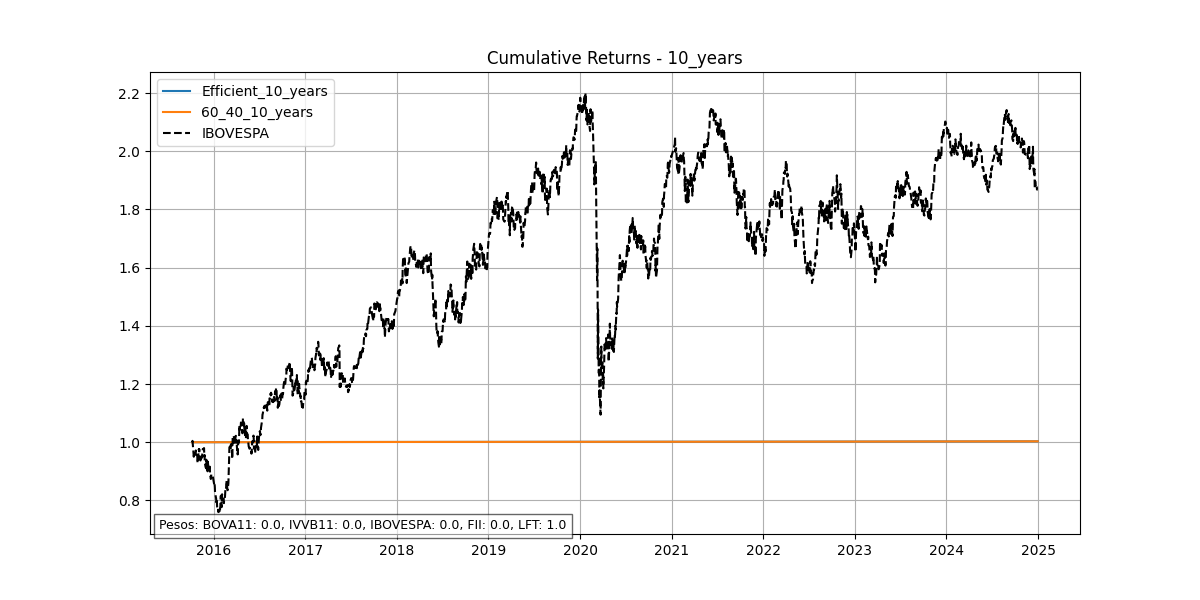
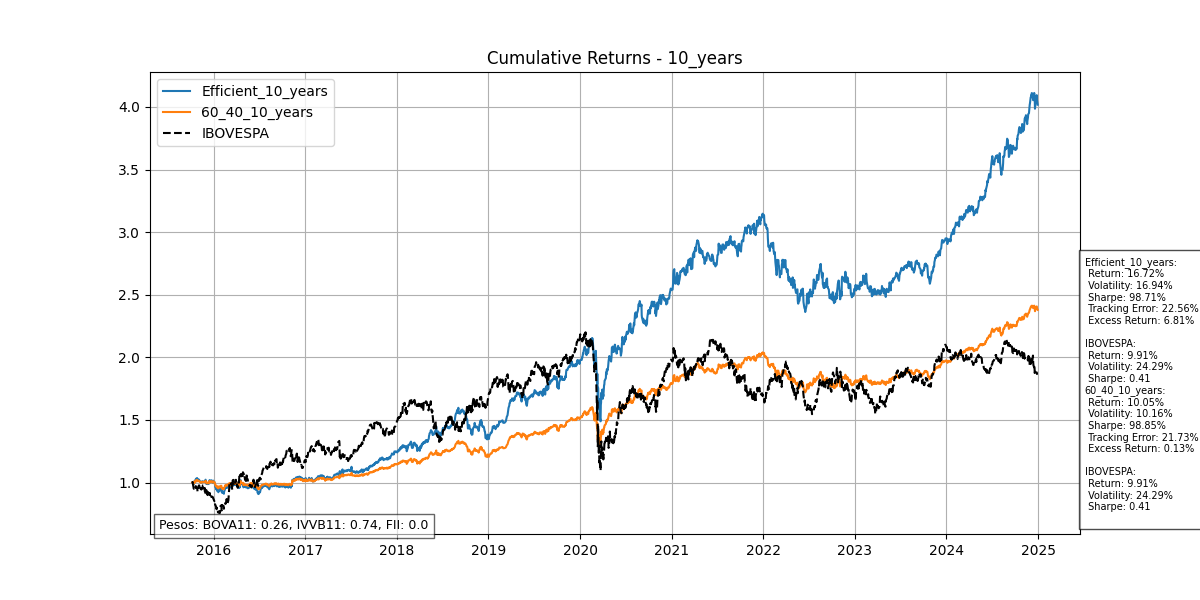
Atualiza script de simulação com métricas e gráficos por período

diff --git a/scripts/test_pipeline.py b/scripts/test_pipeline.py
@@ -57,7 +57,9 @@ print("NaNs per columns after interpolation:")
 print(returns_df.isna().sum())
 
 periods = [10, 5, 3]
-weights_dict = simulate_by_period(full_data, periods)
+risky_assets = full_data[["BOVA11", "IVVB11", "FII"]]
+risky_assets_names = ['BOVA11', 'IVVB11', 'FII']
+weights_dict = simulate_by_period(risky_assets, periods)
 
 portfolio_returns_dict = {}
 
@@ -68,7 +70,9 @@ for label, weights in weights_dict.items():
 
 
     ativos_usados = returns_df.columns[:len(weights)].tolist()
-    clean_returns = returns_df.dropna(subset=ativos_usados + ['LFT'])
+    clean_returns = returns_filtered.dropna(subset=ativos_usados + ['LFT'])
+    print("Retornos usados para portfólio:", clean_returns[ativos_usados].describe())
+    print("Pesos:", weights)
 
     if clean_returns.empty:
         print ('Clean Returns are empty for {label}. Passing...')
@@ -95,19 +99,45 @@ for period in ['10_years', '5_years', '3_years']:
         if key.endswith(period):
             series_filtered = series.loc[idx_filtered]
             cumulative = (1 + series_filtered).cumprod()
-            plt.plot(normalize_series(cumulative), label=key)
+            normalized = cumulative / cumulative.iloc[0]
+            plt.plot(normalized, label=key)
 
             if 'Efficient' in key:
                 weights = weights_dict[period]
-                ativos = returns_df.columns[:len(weights)]
+                ativos = risky_assets_names
                 pesos_formatados = ', '.join([f'{a}: {round(w, 2)}' for a, w in zip(ativos, weights)])
                 plt.text(0.01, 0.01, f'Pesos: {pesos_formatados}', transform=plt.gca().transAxes,
                          fontsize=9, bbox=dict(facecolor='white', alpha=0.6))
-    ibov_filtered = ibov_returns[series.index]
+    ibov_filtered = ibov_returns.loc[idx_filtered]
     ibov_cumulative = (1 + ibov_filtered).cumprod()
     plt.plot(normalize_series(ibov_cumulative), label='IBOVESPA', linestyle='--', color='black')
 
     plt.title(f'Cumulative Returns - {period}')
+    metrics_text = ''
+    for key in portfolio_returns_dict:
+        if key.endswith(period):
+            row = benchmark_df[benchmark_df['Portfolio'] == key]
+            if not row.empty:
+                r = row.iloc[0]
+                metrics_text += f'{key}:\n'
+                metrics_text += f' Return: {r['Annual Return']:.2%}\n'
+                metrics_text += f' Volatility: {r['Volatility']:.2%}\n'
+                metrics_text += f' Sharpe: {r['Sharpe']:.2%}\n'
+                metrics_text += f' Tracking Error: {r['Tracking Error']:.2%}\n'
+                metrics_text += f' Excess Return: {r['Excess Return']:.2%}\n\n'
+
+                ibov_period = ibov_returns.loc[idx_filtered]
+                ibov_annual_return = ibov_period.mean() * 252
+                ibov_volatility = ibov_period.std() * np.sqrt(252)
+                ibov_sharpe = ibov_annual_return / ibov_volatility if ibov_volatility != 0 else np.nan
+
+                metrics_text += f'IBOVESPA:\n'
+                metrics_text += f' Return: {ibov_annual_return:.2%}\n'
+                metrics_text += f' Volatility: {ibov_volatility:.2%}\n'
+                metrics_text += f' Sharpe: {ibov_sharpe:.2f}\n'
+
+    plt.gca().text(1.0051, 0.60, metrics_text, transform=plt.gca().transAxes,
+                   fontsize=7, verticalalignment='top', bbox=dict(facecolor='white', alpha=0.7))
     plt.legend()
     plt.grid(True)
     plt.savefig(f'dashboard/cumulative_returns_{period}.png')
@@ -124,17 +154,6 @@ if benchmark_df is not None and not benchmark_df.empty:
     benchmark_df.to_csv('dashboard/portfolio_metrics.csv', index=False)
 else:
     print("Benchmark_df is empty")
-plt.figure(figsize=(12,6))
-for name, returns in portfolio_returns_dict.items():
-    print(f"{name} → NaNs: {returns.isna().sum()}, Shape: {returns.shape}")
-    cumulative = (1 + returns).cumprod()
-    plt.plot(cumulative, label=name)
-
-plt.plot((1 + ibov_returns).cumprod(), label="IBOVESPA", linestyle="--", color="black")
-plt.title("Cumulative Returns Comparison")
-plt.legend()
-plt.grid(True)
-plt.show()
 
 benchmark_df.to_csv("dashboard/portfolio_metrics.csv", index=False)
 returns_df.to_csv("dashboard/full_returns.csv")

diff --git a/data_sources/ifix_loader.py b/data_sources/ifix_loader.py
@@ -1,8 +1,10 @@
-import requests
+
 import pandas as pd
-from config_loader import BRAPI_API_KEY
+
 
 def fetch_and_save_ifix_snapshot():
+    import requests
+    from config_loader import BRAPI_API_KEY
     url = f"https://brapi.dev/api/quote/IFIX.SA?range=10y&interval=1d&token={BRAPI_API_KEY}"
     response = requests.get(url)
     data = response.json()
@@ -35,7 +37,7 @@ def load_ifix_data():
     df["IFIX"] = df["IFIX"].astype(str).str.replace(".", "", regex=False).str.replace(",", ".", regex=False).astype(float)
 
     # Filtra até 31/12/2020
-    return df.loc[:'2020-12-31'][["IFIX"]]
+    return df.loc[:'2021-01-12'][["IFIX"]]
 
 if __name__ == "__main__": #garante que o script seja rodado quando executado diretamente e não quando for importado por outro módulo
     fetch_and_save_ifix_snapshot()
